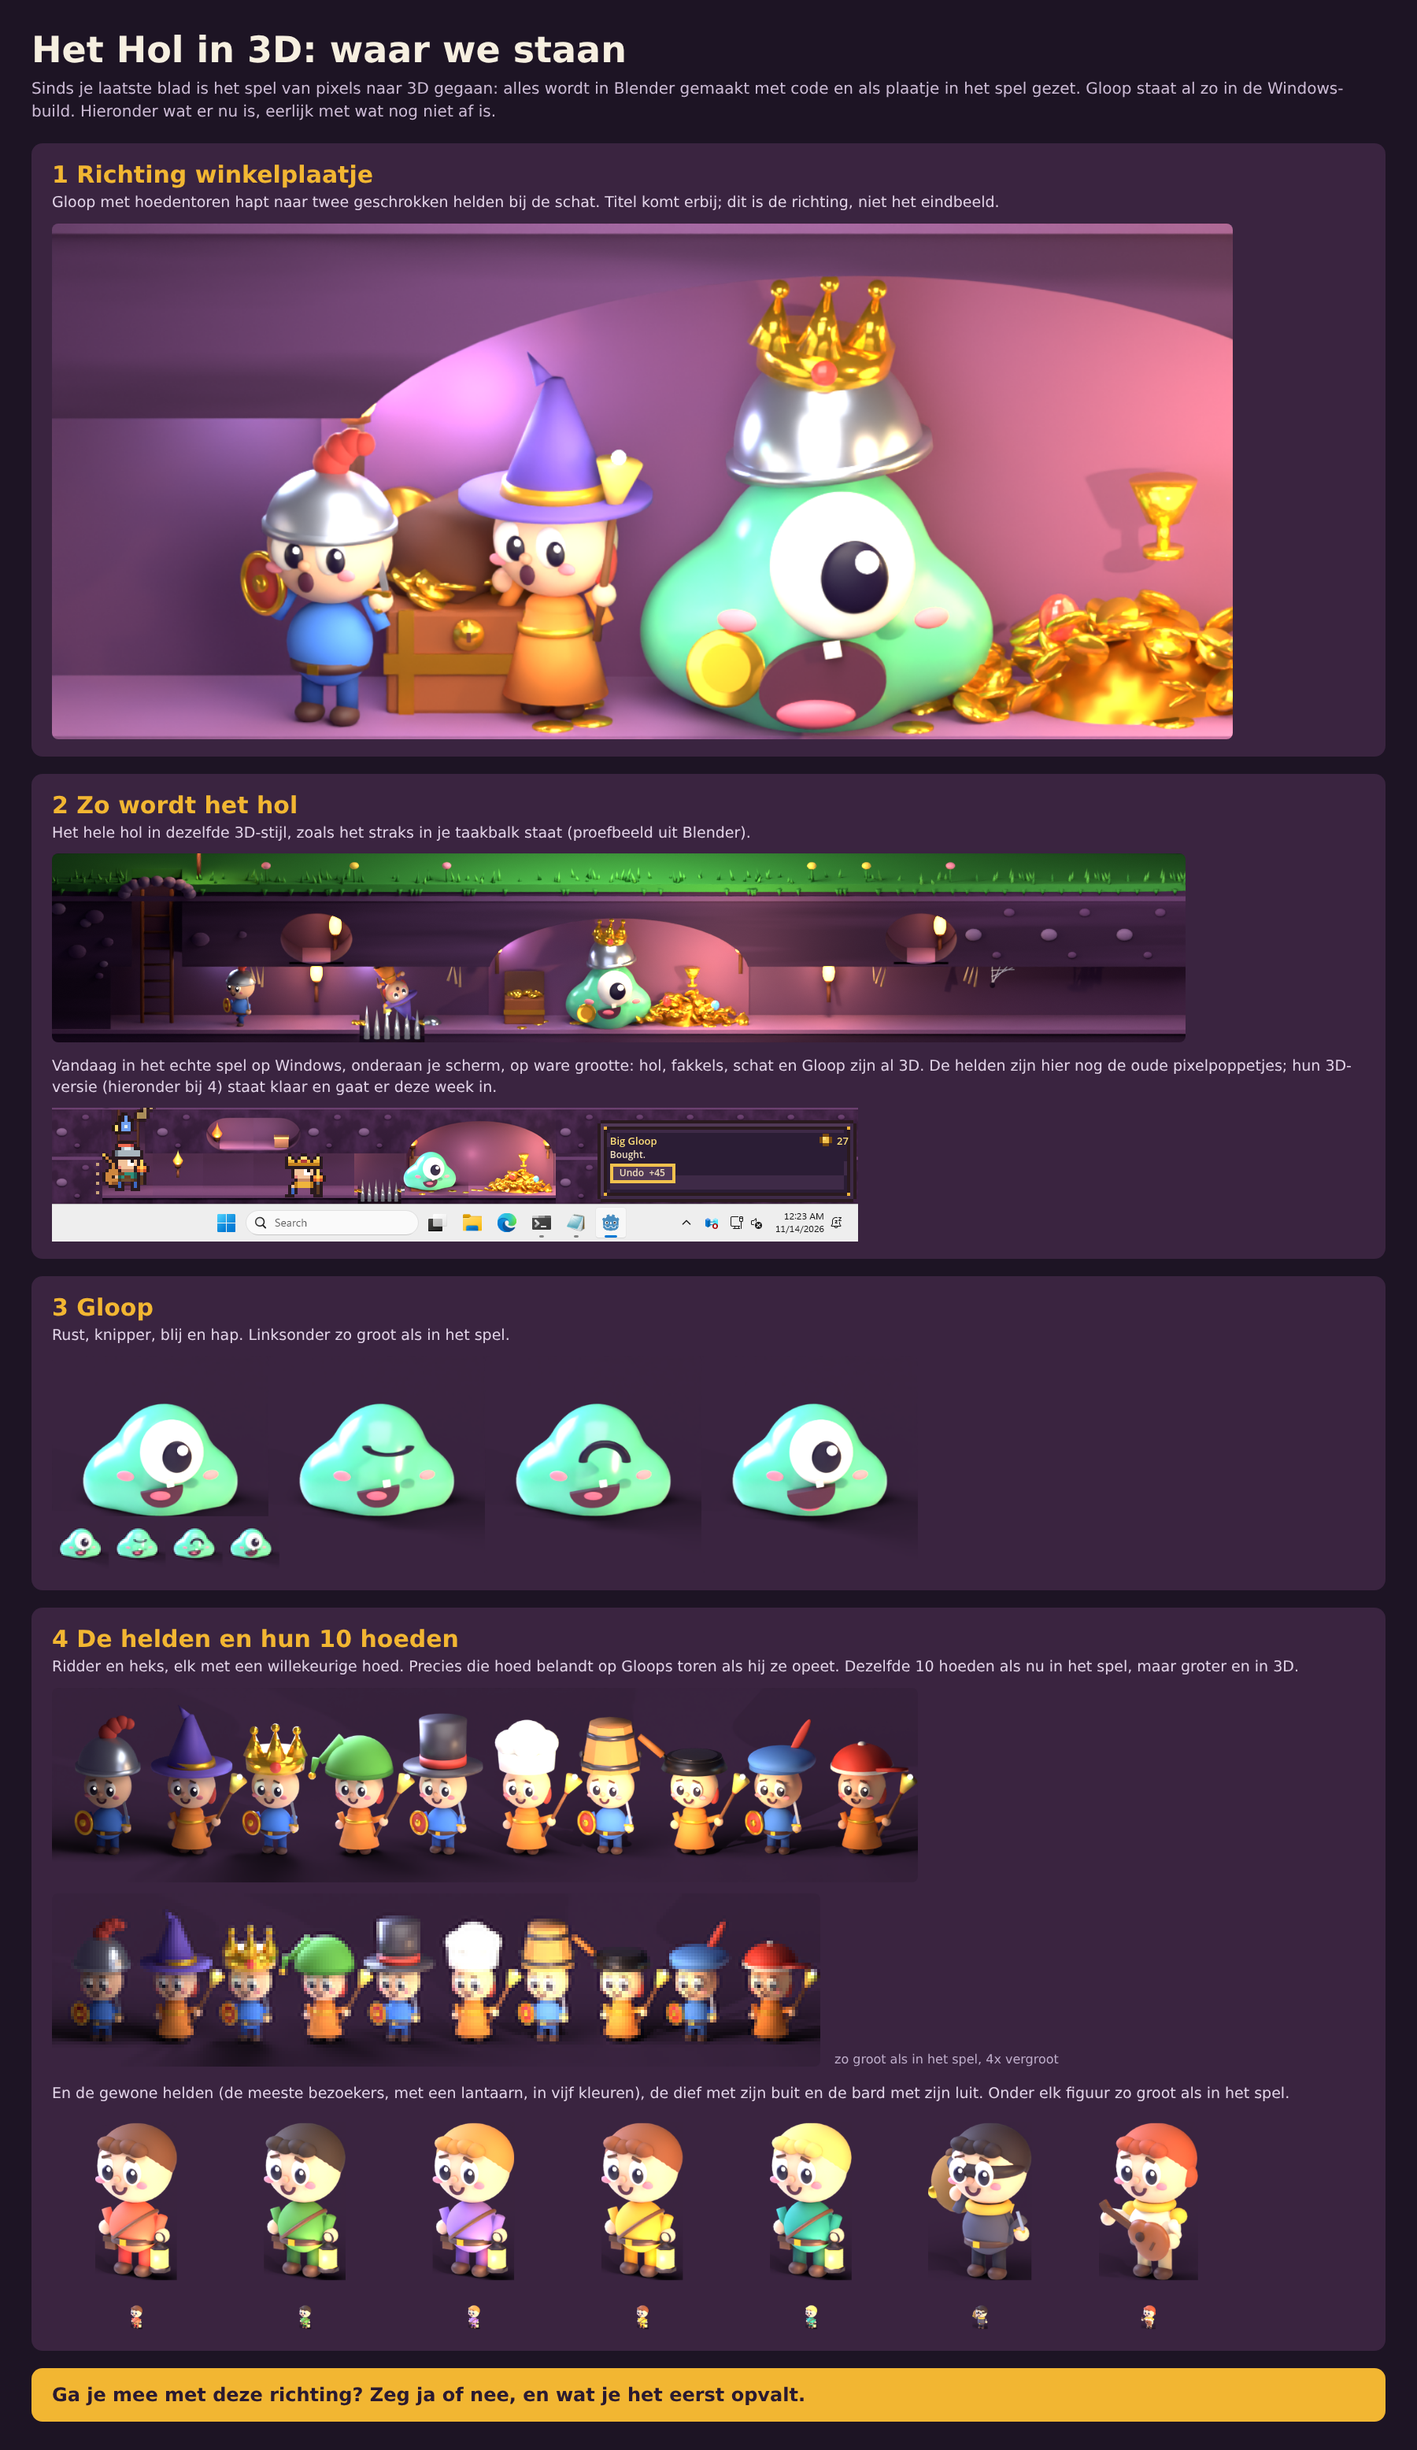
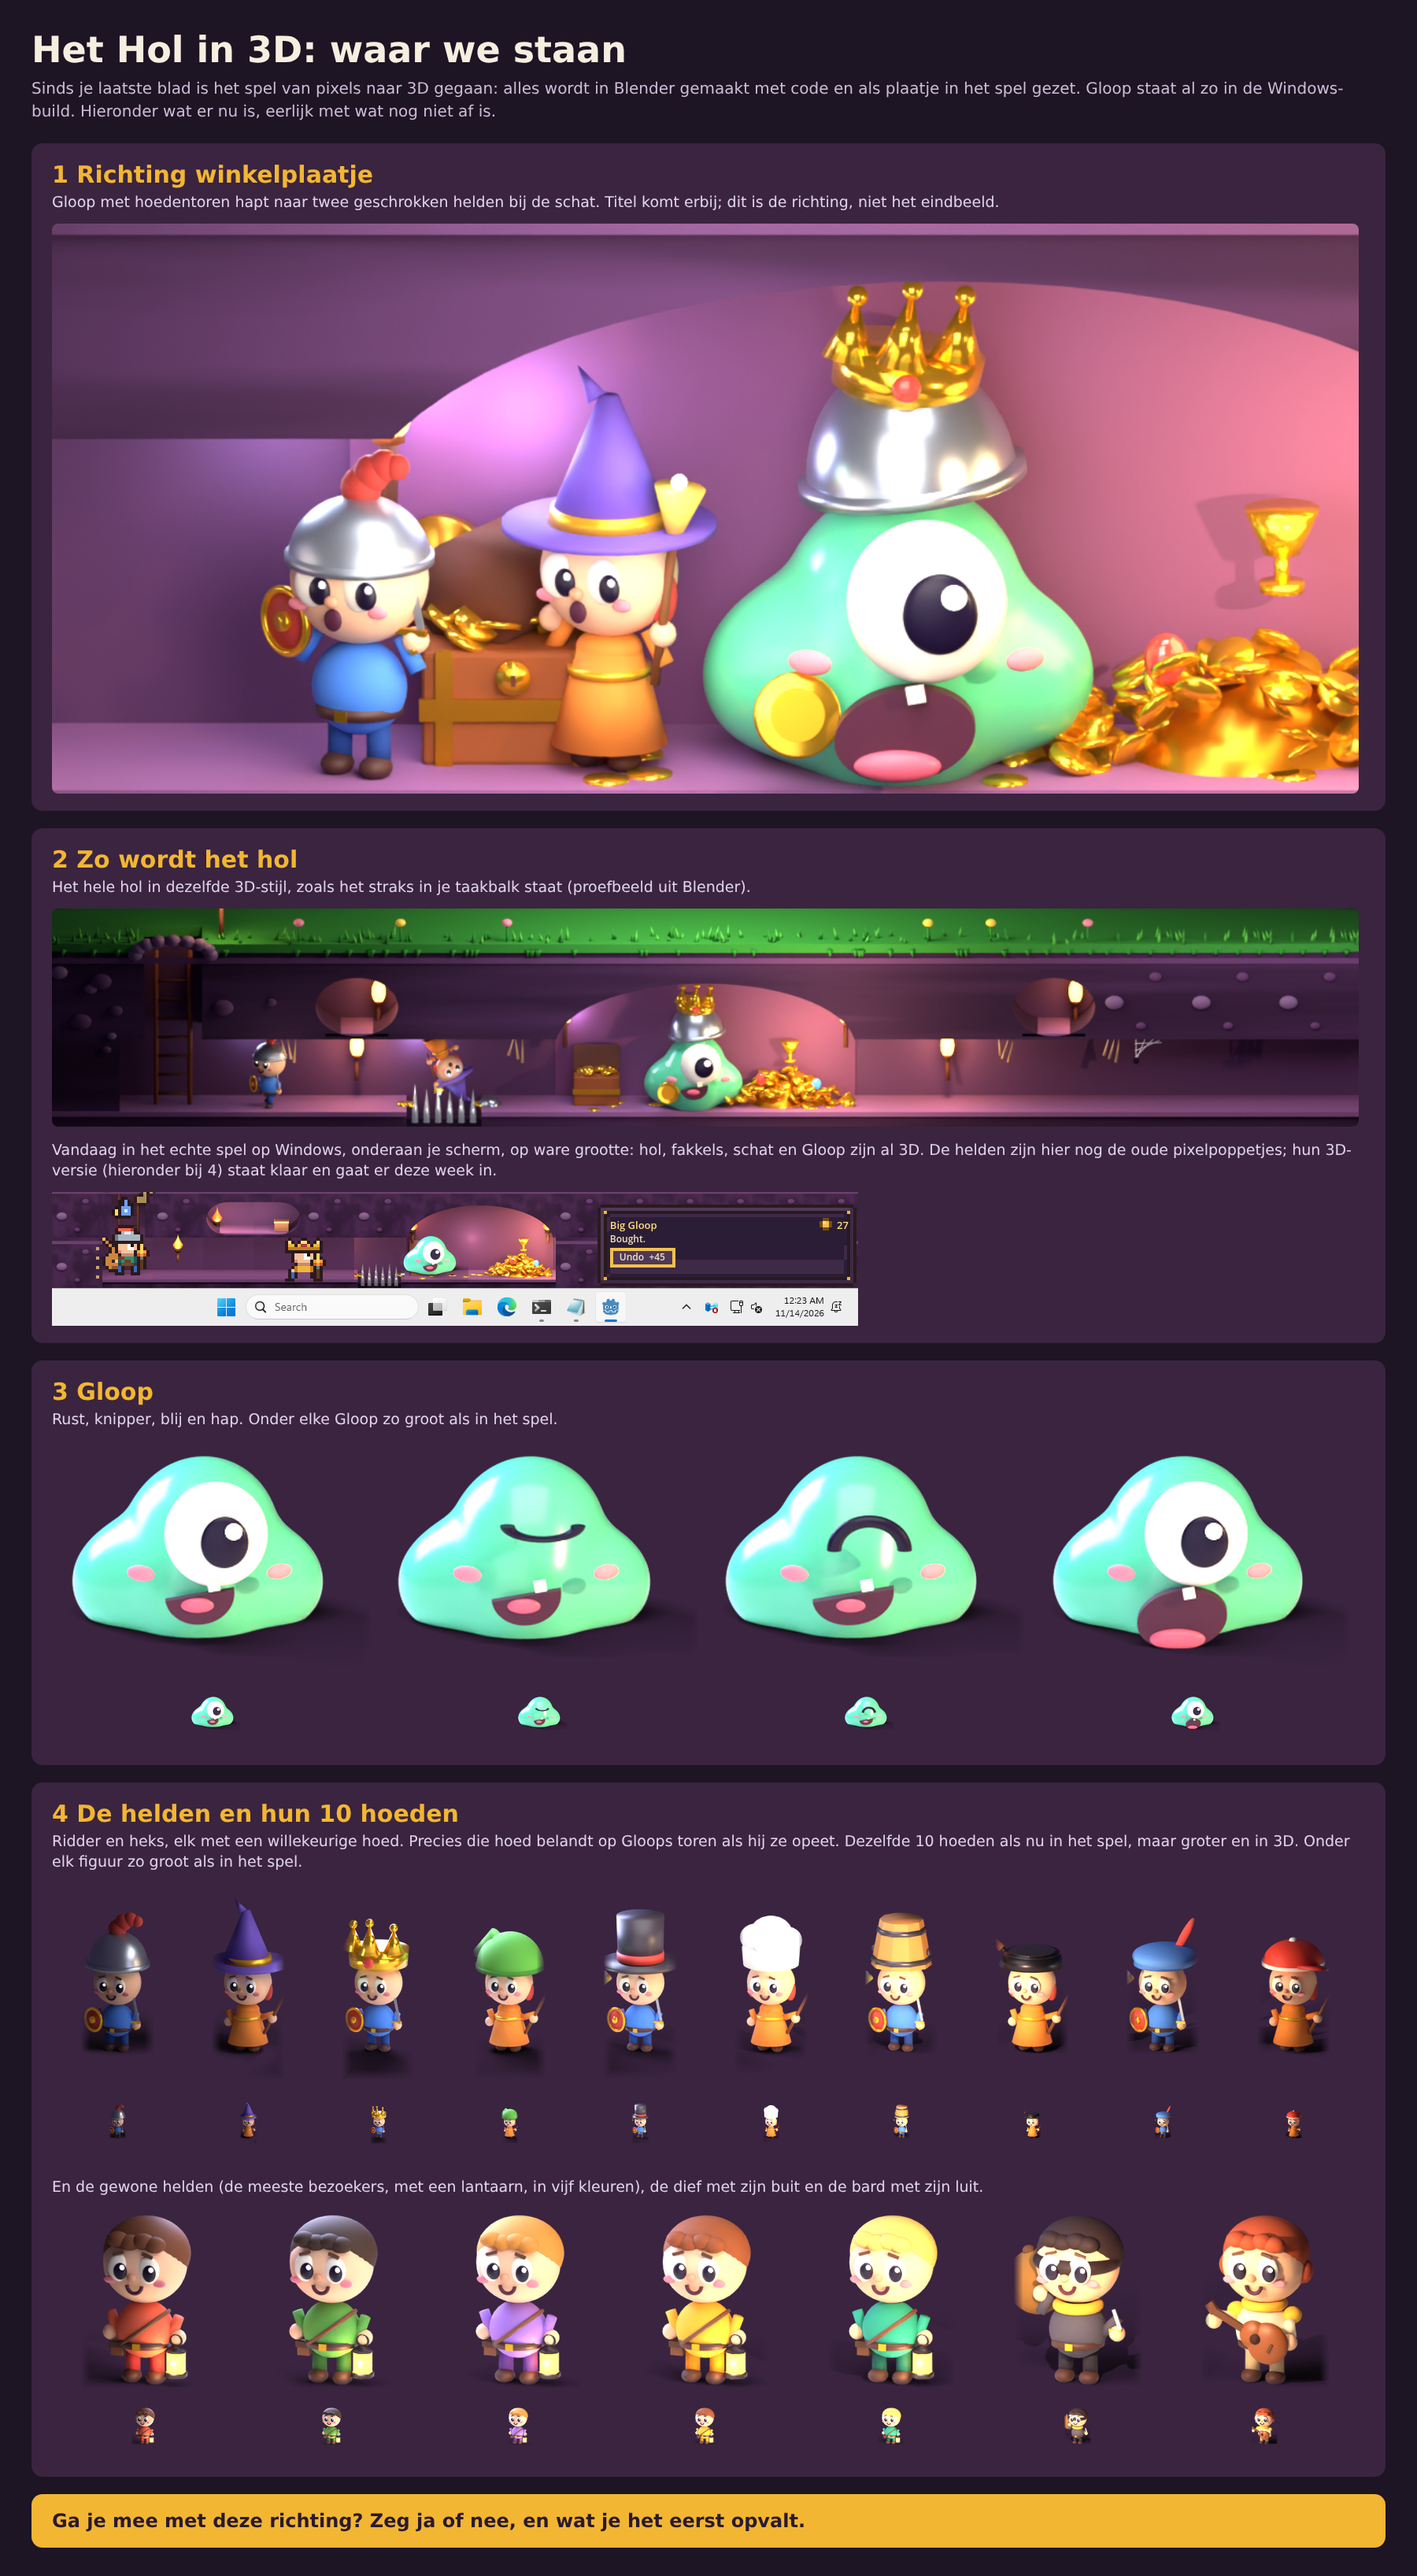
Daan: blad voor Thijs concept 3b (figuren doorzichtig opnieuw, zonder schaduwrechthoeken, ware grootte onder elk figuur)
Claude-Session: https://claude.ai/code/session_01RMWUyhR95gnaKxRfWe8Uza

diff --git a/ontwerp/steam/blad-3d/blad.html b/ontwerp/steam/blad-3d/blad.html
@@ -13,9 +13,9 @@ img{display:block;max-width:100%;border-radius:8px}
 </style></head><body><div class="w">
 <h1>Het Hol in 3D: waar we staan</h1>
 <p class="s">Sinds je laatste blad is het spel van pixels naar 3D gegaan: alles wordt in Blender gemaakt met code en als plaatje in het spel gezet. Gloop staat al zo in de Windows-build. Hieronder wat er nu is, eerlijk met wat nog niet af is.</p>
-<div class="k"><h2>1 Richting winkelplaatje</h2><p>Gloop met hoedentoren hapt naar twee geschrokken helden bij de schat. Titel komt erbij; dit is de richting, niet het eindbeeld.</p><img src="../helden-3d/winkel-closeup-proef6-breed.png" style="width:1500px"></div>
-<div class="k"><h2>2 Zo wordt het hol</h2><p>Het hele hol in dezelfde 3D-stijl, zoals het straks in je taakbalk staat (proefbeeld uit Blender).</p><img src="../hol-3d/ronde4-2x.png" style="width:1440px"><p style="margin-top:16px">Vandaag in het echte spel op Windows, onderaan je scherm, op ware grootte: hol, fakkels, schat en Gloop zijn al 3D. De helden zijn hier nog de oude pixelpoppetjes; hun 3D-versie (hieronder bij 4) staat klaar en gaat er deze week in.</p><img src="spel-ronde6-160.png" style="width:1024px;border-radius:0"></div>
-<div class="k"><h2>3 Gloop</h2><p>Rust, knipper, blij en hap. Linksonder zo groot als in het spel.</p><img src="../gloop-3d/ronde2-standen.png" style="width:1100px"></div>
-<div class="k"><h2>4 De helden en hun 10 hoeden</h2><p>Ridder en heks, elk met een willekeurige hoed. Precies die hoed belandt op Gloops toren als hij ze opeet. Dezelfde 10 hoeden als nu in het spel, maar groter en in 3D.</p><img src="../hoeden-3d/helden-met-hoed-v2.png" style="width:1100px"><div class="r" style="margin-top:14px"><img src="../hoeden-3d/helden-met-hoed-v2-55px-4x.png" style="width:976px"><div class="n">zo groot als in het spel, 4x vergroot</div></div><p style="margin-top:20px">En de gewone helden (de meeste bezoekers, met een lantaarn, in vijf kleuren), de dief met zijn buit en de bard met zijn luit. Onder elk figuur zo groot als in het spel.</p><img src="../helden-3d/drie-helden-blad-r2.png" style="width:1500px"></div>
+<div class="k"><h2>1 Richting winkelplaatje</h2><p>Gloop met hoedentoren hapt naar twee geschrokken helden bij de schat. Titel komt erbij; dit is de richting, niet het eindbeeld.</p><img src="../helden-3d/winkel-closeup-proef6-breed.png" style="width:1660px"></div>
+<div class="k"><h2>2 Zo wordt het hol</h2><p>Het hele hol in dezelfde 3D-stijl, zoals het straks in je taakbalk staat (proefbeeld uit Blender).</p><img src="../hol-3d/ronde4-2x.png" style="width:1660px"><p style="margin-top:16px">Vandaag in het echte spel op Windows, onderaan je scherm, op ware grootte: hol, fakkels, schat en Gloop zijn al 3D. De helden zijn hier nog de oude pixelpoppetjes; hun 3D-versie (hieronder bij 4) staat klaar en gaat er deze week in.</p><img src="spel-ronde6-160.png" style="width:1024px;border-radius:0"></div>
+<div class="k"><h2>3 Gloop</h2><p>Rust, knipper, blij en hap. Onder elke Gloop zo groot als in het spel.</p><img src="vak3-gloop.png" style="width:1660px;border-radius:0"></div>
+<div class="k"><h2>4 De helden en hun 10 hoeden</h2><p>Ridder en heks, elk met een willekeurige hoed. Precies die hoed belandt op Gloops toren als hij ze opeet. Dezelfde 10 hoeden als nu in het spel, maar groter en in 3D. Onder elk figuur zo groot als in het spel.</p><img src="vak4-hoeden.png" style="width:1660px;border-radius:0"><p style="margin-top:22px">En de gewone helden (de meeste bezoekers, met een lantaarn, in vijf kleuren), de dief met zijn buit en de bard met zijn luit.</p><img src="vak4-helden.png" style="width:1660px;border-radius:0"></div>
 <div class="vraag">Ga je mee met deze richting? Zeg ja of nee, en wat je het eerst opvalt.</div>
 </div></body></html>

diff --git a/ontwerp/steam/blad-3d/maak_vakken.py b/ontwerp/steam/blad-3d/maak_vakken.py
@@ -1,0 +1,63 @@
+"""Vak 3 en 4 van het blad: figuren los uitgesneden uit doorzichtige renders, op de kaartkleur,
+groot en eronder op ware grootte (Daan, 14 nov). python3 maak_vakken.py <map met renders>"""
+import sys
+from PIL import Image
+import numpy as np
+R = sys.argv[1]; BG = (58, 36, 64, 255); W = 1660
+
+def stukken(pad, drempel=60):
+    a = Image.open(pad).convert("RGBA"); al = np.array(a)[:, :, 3]
+    kol = (al > drempel).any(axis=0); uit = []; x = 0
+    while x < len(kol):
+        if kol[x]:
+            b = x
+            while x < len(kol) and kol[x]: x += 1
+            if x - b > 8: uit.append((b, x))
+        x += 1
+    rij = (al > drempel).any(axis=1); y0 = int(np.argmax(rij)); y1 = len(rij) - int(np.argmax(rij[::-1]))
+    res = []
+    for b, e in uit:
+        m = 14; res.append(a.crop((max(0, b - m), max(0, y0 - m), min(a.width, e + m), min(a.height, y1 + 22))))
+    return res, y1 - y0
+
+def zacht(im, rand=12):
+    im = im.copy(); al = np.array(im.split()[3]).astype(float); h, w = al.shape
+    al = np.clip((al - 32) * 255 / (255 - 32), 0, 255)  # de vage brede schaduw van de schaduwvanger weg, de schaduw onder de voeten blijft
+    rx = np.minimum(np.arange(w), np.arange(w)[::-1]) / rand; ry = np.minimum(np.arange(h), np.arange(h)[::-1]) / rand
+    m = np.clip(np.minimum.outer(ry, rx), 0, 1); im.putalpha(Image.fromarray((al * m).astype("uint8"))); return im
+
+def hoofddeel(im):
+    """Alleen het figuur zelf: losse stukjes van de buren (bezempunt) weg."""
+    from scipy import ndimage
+    al = np.array(im.split()[3]); lab, n = ndimage.label(al > 20)
+    if n < 2: return im
+    groot = 1 + int(np.argmax(ndimage.sum(np.ones_like(al), lab, range(1, n + 1))))
+    houd = ndimage.binary_dilation(lab == groot, iterations=3)
+    im = im.copy(); im.putalpha(Image.fromarray((al * houd).astype("uint8"))); return im
+
+def vak(figs, groot_h, klein_h, uit, extra=None):
+    figs = [hoofddeel(f) for f in figs]
+    n = len(figs); vakw = W // n
+    gs = [f.resize((max(1, round(f.width * groot_h / f.height)), groot_h), Image.LANCZOS) for f in figs]
+    ks = [f.resize((max(1, round(f.width * klein_h / f.height)), klein_h), Image.LANCZOS) for f in figs]
+    H = groot_h + klein_h + 40
+    doek = Image.new("RGBA", (W, H), BG)
+    for i in range(n):
+        cx = vakw * i + vakw // 2
+        g = zacht(gs[i]); doek.alpha_composite(g, (cx - g.width // 2, 0))
+        k = zacht(ks[i], 3); doek.alpha_composite(k, (cx - k.width // 2, groot_h + 22))
+    doek.convert("RGB").save(uit)
+
+# Gloop: vier standen, ware grootte 42 px lijf
+gl = [stukken(f"{R}/g-{s}.png")[0][0] for s in ("rust", "knipper", "blij", "hap")]
+vak(gl, 300, 50, "vak3-gloop.png")
+# helden met hoed (10) en de zeven helden: zelfde maat per figuur
+def plakken(pad, n, stap_px, drempel=40):
+    a = Image.open(pad).convert("RGBA"); al = np.array(a)[:, :, 3]
+    rij = (al > drempel).any(axis=1); y0 = int(np.argmax(rij)); y1 = len(rij) - int(np.argmax(rij[::-1]))
+    mid = a.width / 2; half = stap_px * 0.44
+    return [a.crop((round(mid + (i - (n - 1) / 2) * stap_px - half), max(0, y0 - 10),
+                    round(mid + (i - (n - 1) / 2) * stap_px + half), min(a.height, y1 + 18))) for i in range(n)]
+h10 = plakken(f"{R}/hoed10.png", 10, 1.5 * 1600 / 15.5); h7 = plakken(f"{R}/helden7.png", 7, 1.5 * 1540 / 11.0)
+vak(h10, 250, 60, "vak4-hoeden.png")
+vak(h7, 230, 50, "vak4-helden.png")

diff --git a/ontwerp/steam/blad-3d/figuren.py b/ontwerp/steam/blad-3d/figuren.py
@@ -1,0 +1,13 @@
+"""Figuren voor het blad voor Thijs (Daan, 14 nov): zeven helden in een rij, doorzichtig.
+Draai: python3.13 figuren.py <uit.png> <breedte> <hoogte>"""
+import sys, os
+sys.path.insert(0, os.path.join(os.path.dirname(os.path.abspath(__file__)), "../../../producten/steam-hol/modellen"))
+import bpy, held, gedeeld as g
+g.leeg()
+rij = [("held", 0), ("held", 1), ("held", 2), ("held", 3), ("held", 4), ("dief", 0), ("bard", 0)]
+for i, (soort, k) in enumerate(rij):
+    held.bouw(soort, "rust", ((i - 3) * 1.5, 0, 0), draai=20, kleur=k)
+bpy.ops.mesh.primitive_plane_add(size=40); bpy.context.object.is_shadow_catcher = True
+g.camera(hoogte_midden=1.25, schaal=11.0)
+g.licht()
+g.render(sys.argv[1], int(sys.argv[2]), int(sys.argv[3]), 32, doorzichtig=True)

diff --git a/ontwerp/steam/blad-3d/LEESMIJ.md b/ontwerp/steam/blad-3d/LEESMIJ.md
@@ -7,3 +7,5 @@ Gaat ma 16 nov op `organisatie/lijst-thijs.md`, na: frisse kijker op dit blad, m
 Frisse kijker op concept 1: een 7; "het winkelplaatje verkoopt de richting, het spelbeeld haalt de indruk onderuit". Verwerkt in concept 2: winkelplaatje bovenaan, Mila's 3D-hol (`hol-3d/ronde4-2x.png`) als "zo wordt het hol", het beeld van vandaag klein eronder zonder jargon en zonder het afgesneden tekstvak, helden kleiner.
 
 Concept 3 (Daan, 14 nov ±00:50 UTC): `hol-3d-blad-voor-thijs-concept3.png`. Vak 2 toont nu het echte spel op Windows op ware grootte met de taakbalk eronder (`spel-ronde6-160.png`, uit `strook-160.png` van run 43533468788, tak `claude/steam-hol-ronde6`): hol, 3D-fakkels, schat en Gloop in 3D; eerlijk erbij dat de helden daar nog pixels zijn. Vak 4 heeft de gewone held in vijf kleuren, dief en bard erbij. Voor ma 16 nov nog: vak 2 opnieuw uit main zodra ronde 6 en de 3D-helden daar staan (dan zonder pixelhelden en zonder de zin over pixels), heks in vak 2 met hoed op het hoofd, frisse kijker op het hele blad.
+
+Concept 3b (zelfde run): frisse kijker op concept 3 gaf een 7 ("ja op de richting, vanwege vak 1"), met drie punten: (1) elk figuur in vak 3 en 4 op een eigen donkerder rechthoek, (2) hoedenrijen ongelijk en de 4x-rij blokkerig, (3) veel leeg paars rechts. Opgelost: Gloop, de 10 helden met hoed (hoed draait mee, besluit 13 nov) en de zeven helden opnieuw doorzichtig gerenderd (`figuren.py`, `../hoeden-3d/proef/helden_met_hoed.py`), per figuur uitgesneden en op de kaartkleur gezet zonder de vage brede schaduw (`maak_vakken.py`), groot en eronder op ware grootte, elk beeld over de volle breedte. Nog open: (a) het Engelse pixelpaneel in de echte strook is een andere stijl dan het 3D-hol; dat is het volgende stijlstuk na de helden (Olaf en ik, na het fest-blad), (b) vak 2 opnieuw uit main zodra ronde 6 en de 3D-helden daar staan.
